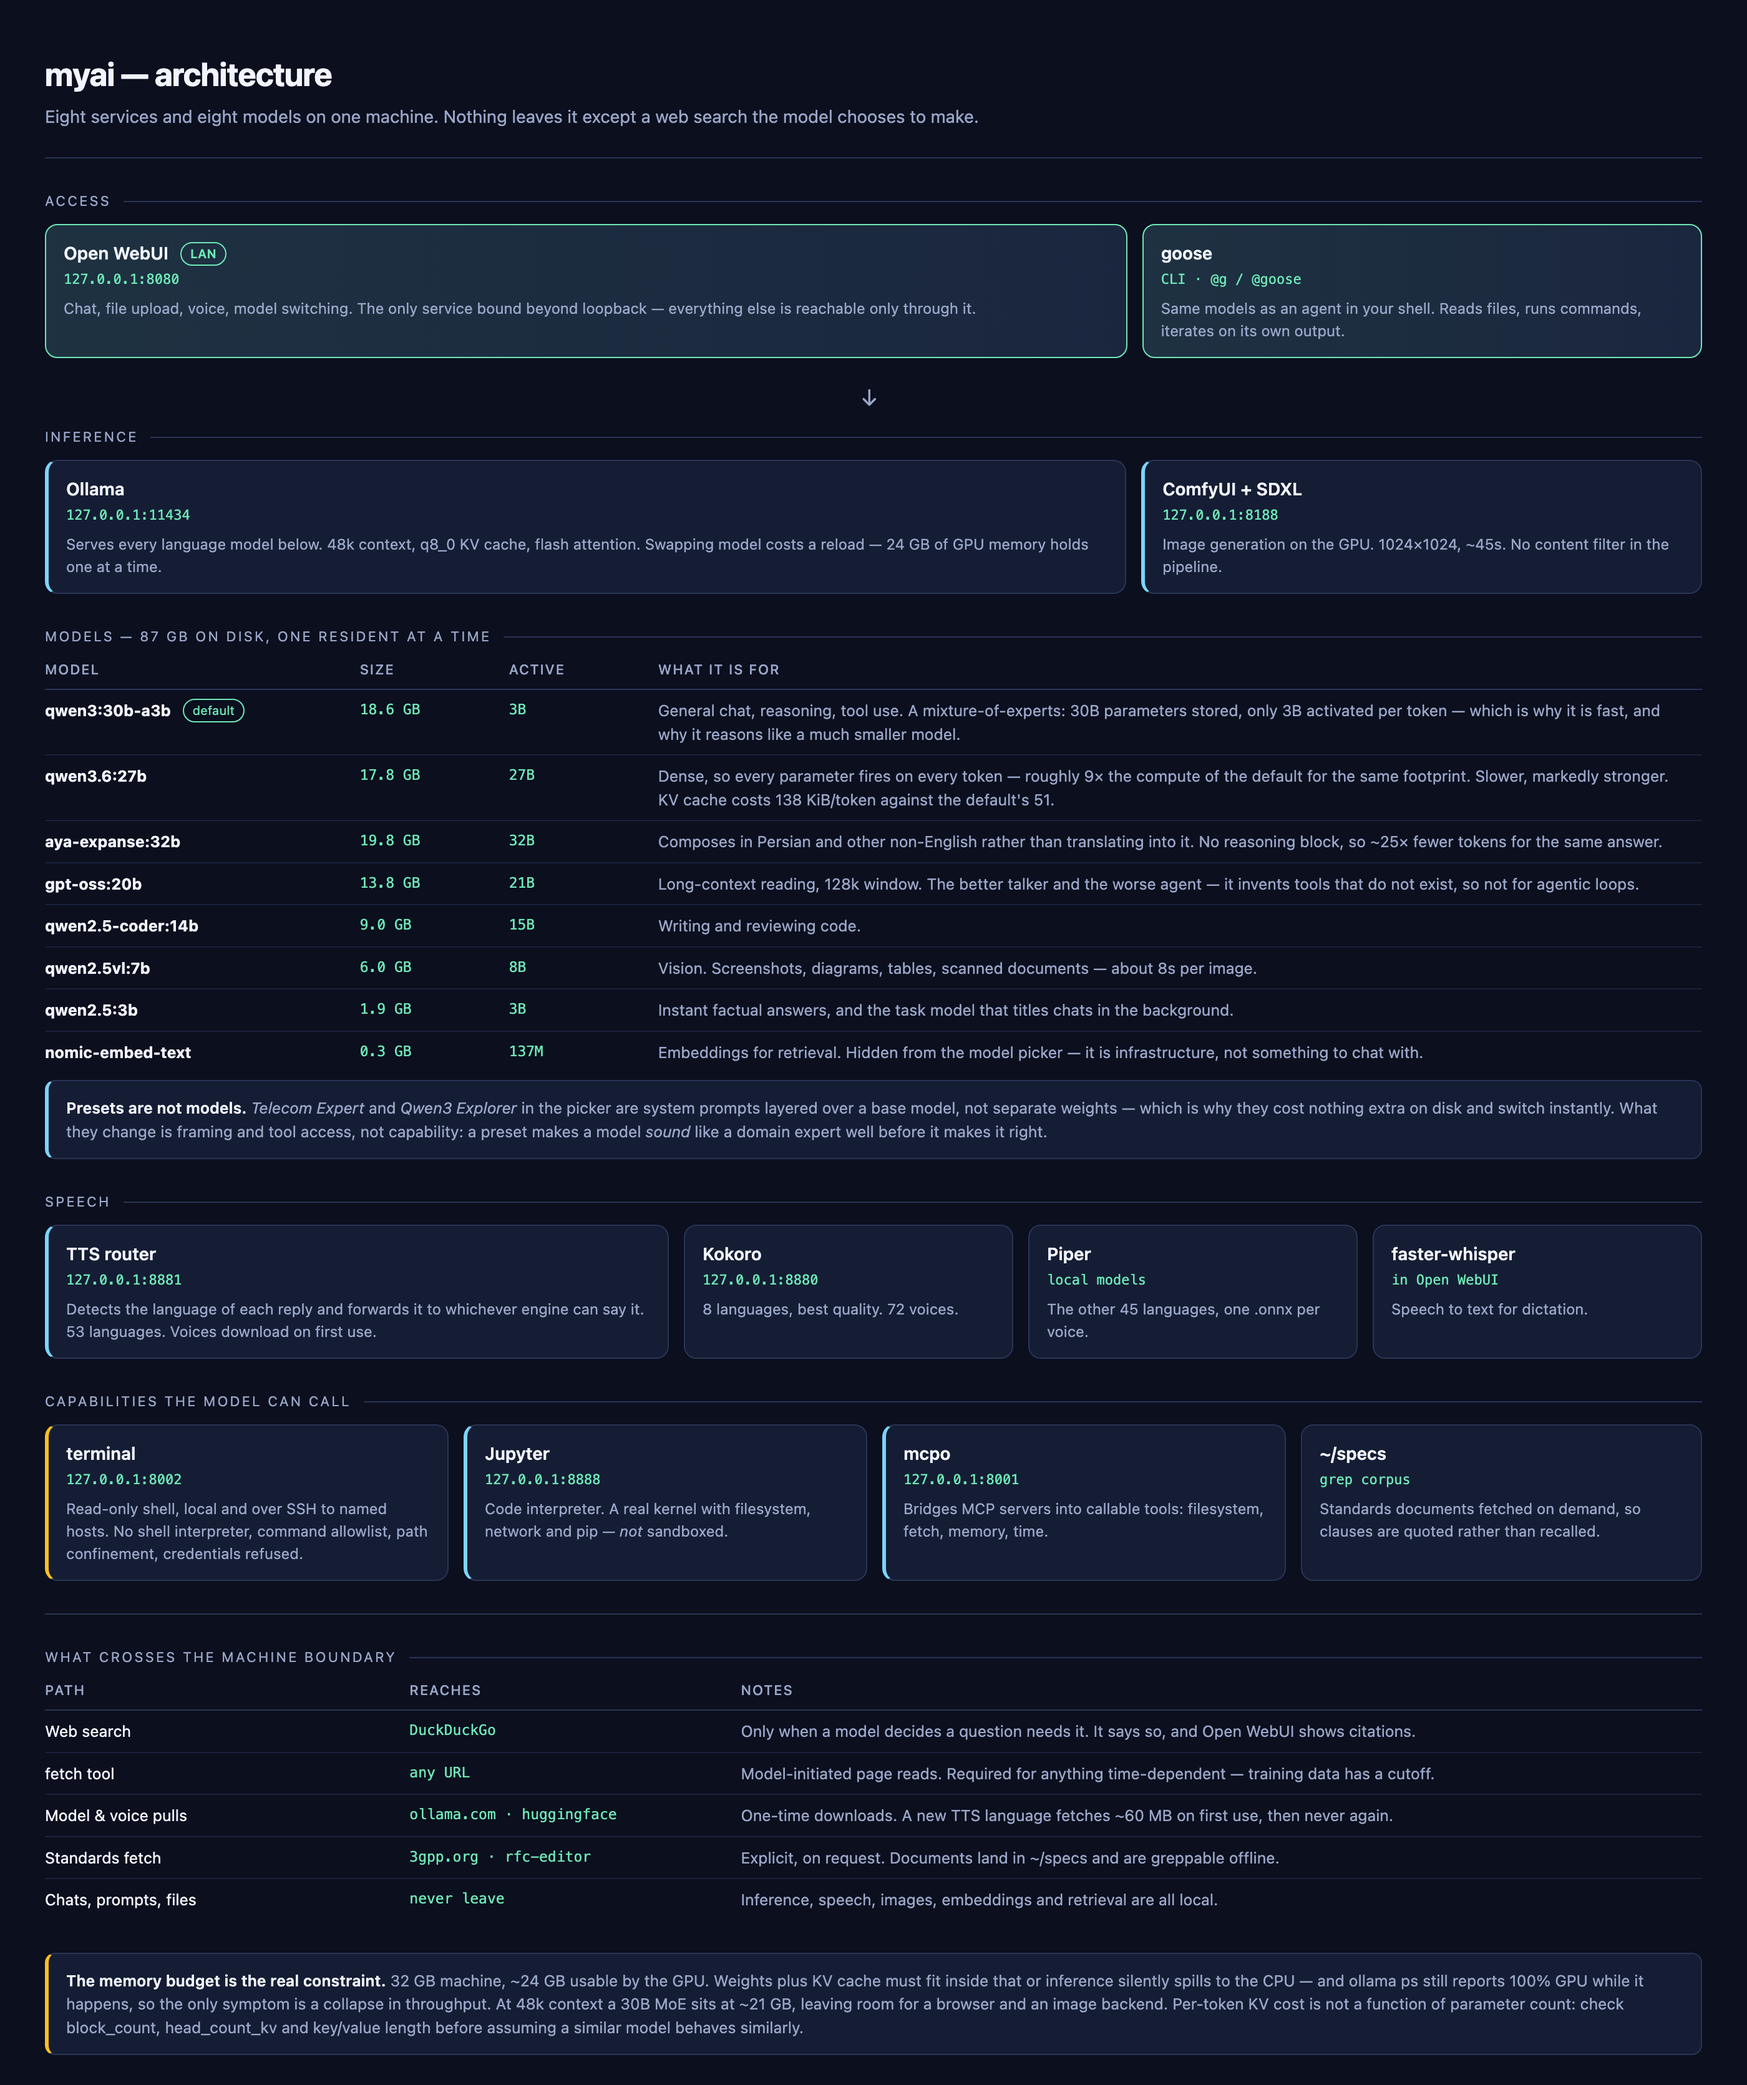
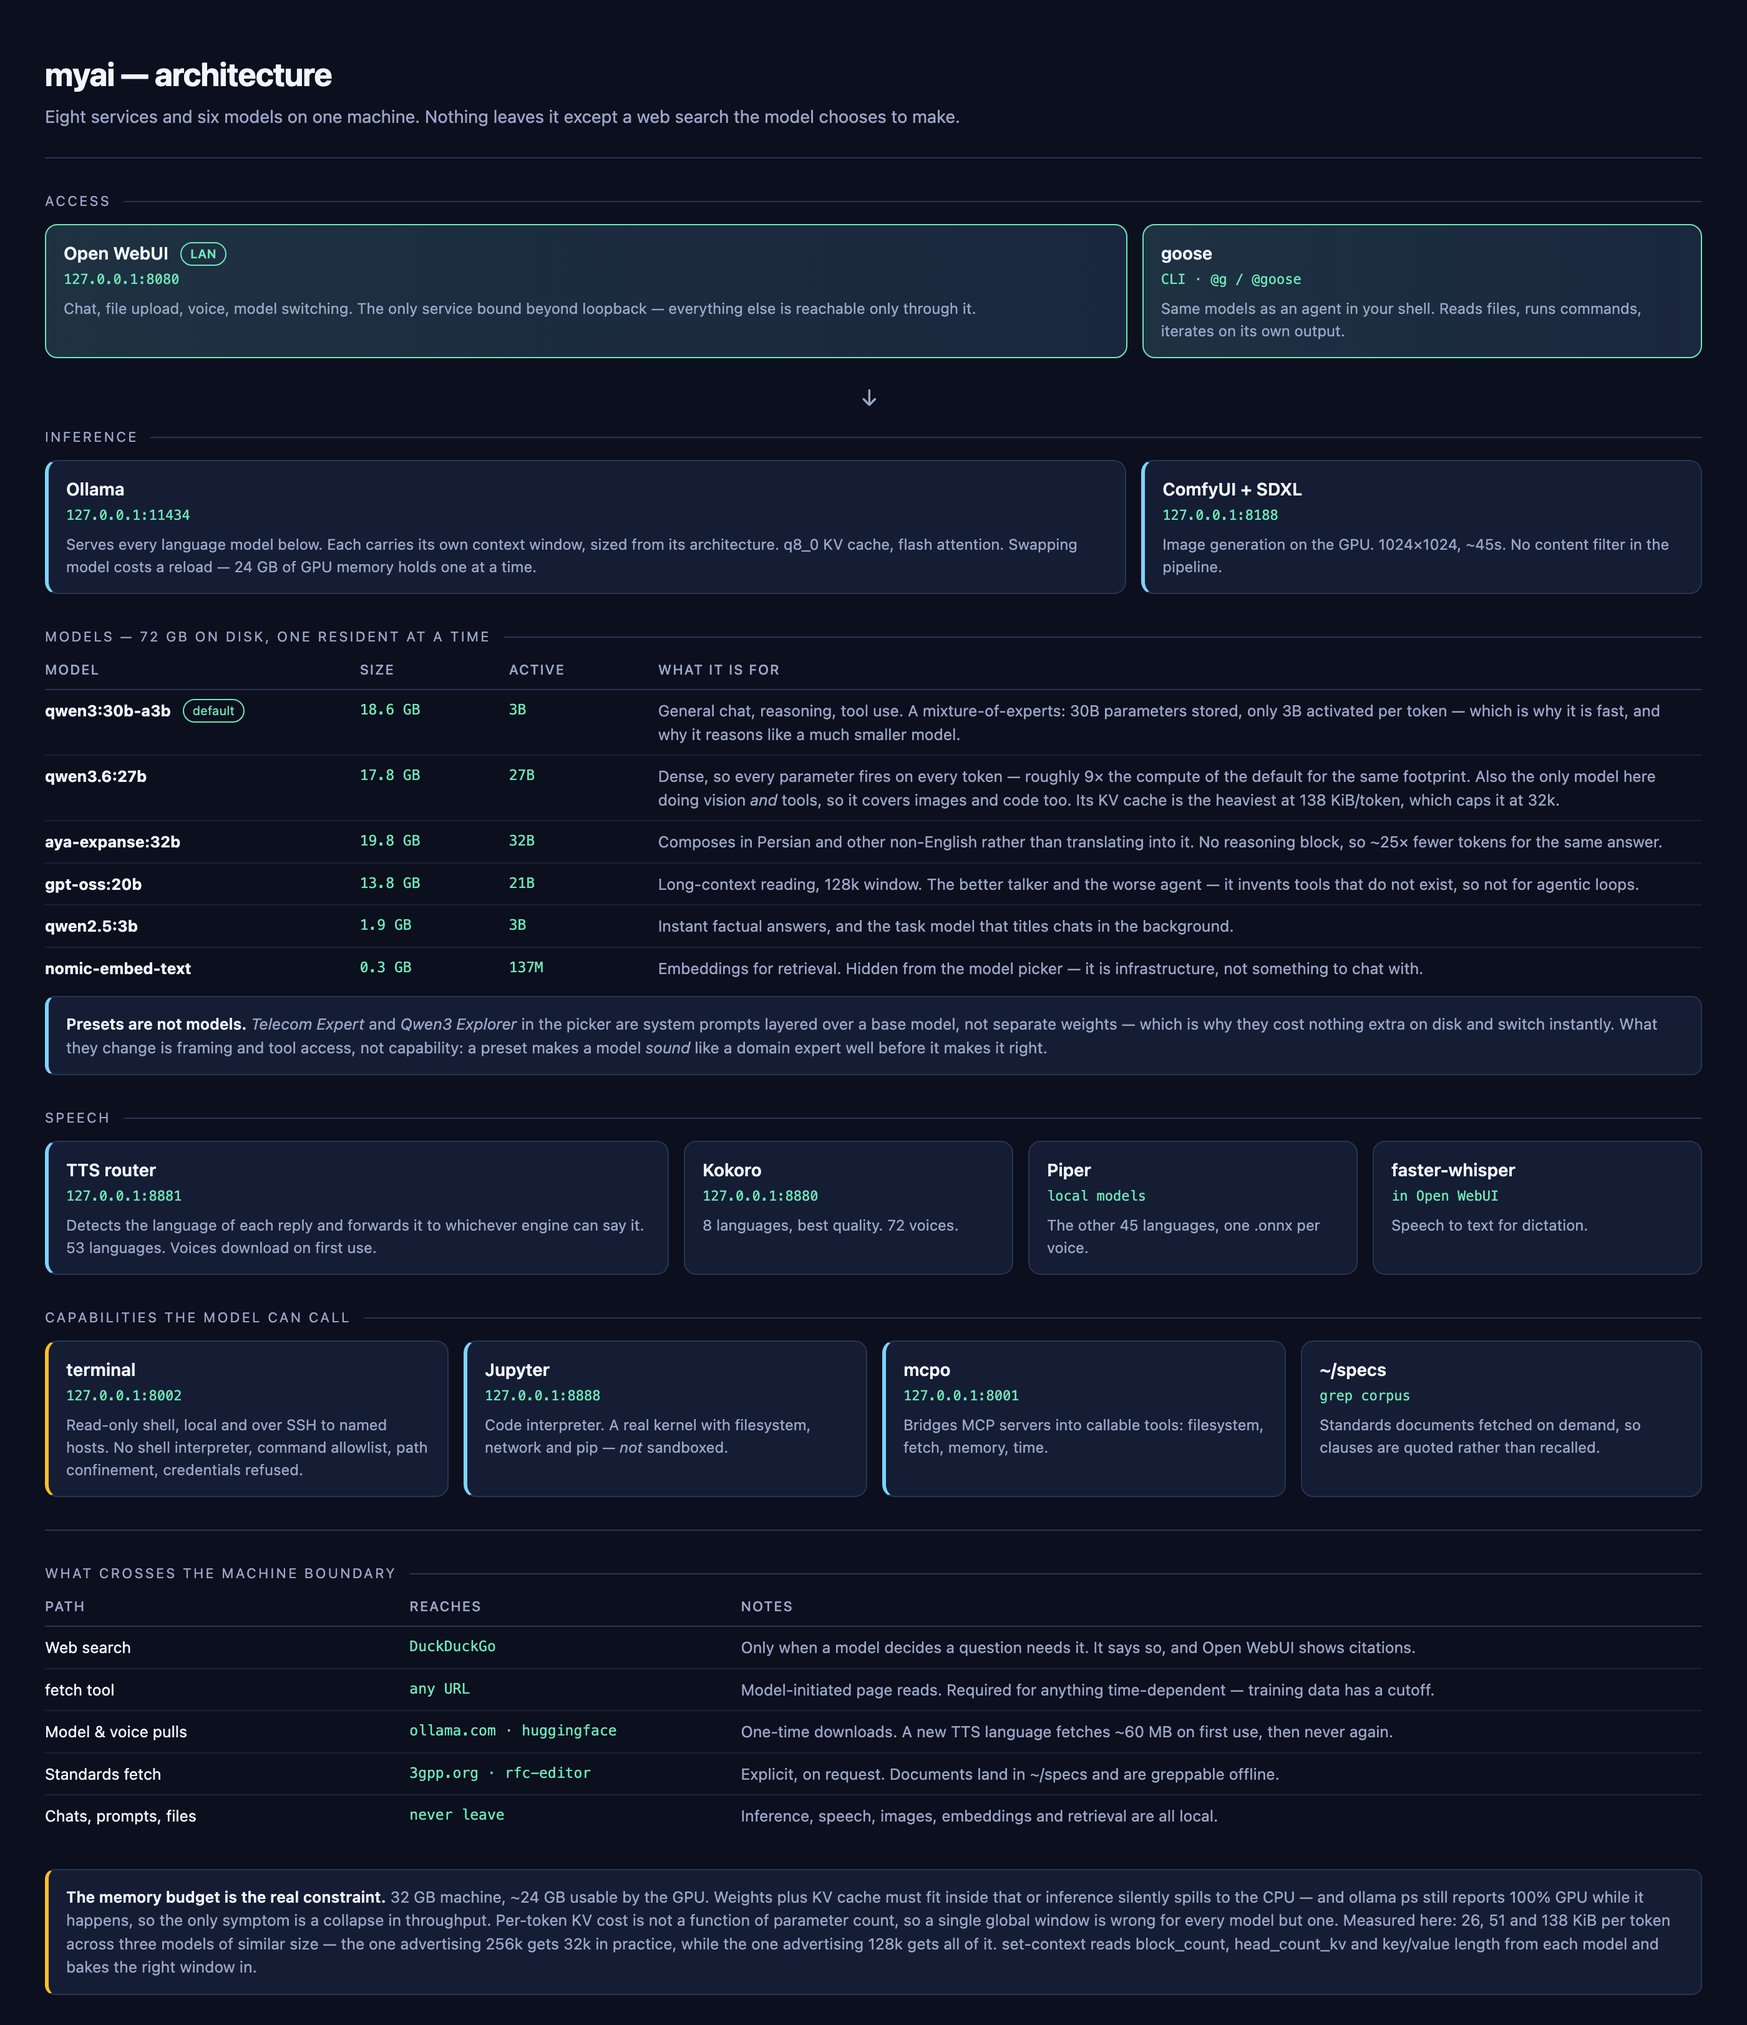
Bring the docs back in line with what is actually installed
The architecture page and GUIDE still described a stack that no longer exists:
two deleted models listed as available, 87 GB of models when there are 72, a
single 48k context window when each model now carries its own, and "pick the VL
model" for images when the VL model is gone.

Three corrections are substantive rather than bookkeeping.

Images now say to pick qwen3.6, and say why that is not merely a substitution:
it is the only model here reporting vision and tools together, so reading an
image no longer forces a model switch when an integration toggle is on. It also
warns about the cost -- a dense 27B takes tens of seconds per image where the 7B
specialist took eight.

The context guidance stops quoting one number. Each model gets what its KV cache
allows: 128k, 72k, 32k. Stating a single figure was what made the old global
setting look reasonable in the first place.

The Persian note is replaced with what was measured instead of what was
impressive. Across five registers aya emitted zero Arabic yeh/kaf where Persian
forms are required -- a tell that is invisible at a glance and breaks search and
sorting -- used ZWNJ correctly, and mixed Persian and Latin numerals the way
Persian technical writing does. Added alongside it: turn thinking off for short
non-English work, because the same one-line request cost 500 tokens and returned
nothing with it on, and 16 tokens with it off.

Also corrects the service count, which had said seven since the TTS router
made it eight.

diff --git a/docs/architecture.html b/docs/architecture.html
@@ -71,7 +71,7 @@
 </style>
 
 <h1>myai — architecture</h1>
-<p class="sub">Eight services and eight models on one machine. Nothing leaves it except a web search the model chooses to make.</p>
+<p class="sub">Eight services and six models on one machine. Nothing leaves it except a web search the model chooses to make.</p>
 <div class="rule"></div>
 
 <div class="band">
@@ -98,7 +98,7 @@
     <div class="card engine wide">
       <div class="name">Ollama</div>
       <div class="port">127.0.0.1:11434</div>
-      <div class="desc">Serves every language model below. 48k context, q8_0 KV cache, flash attention. Swapping model costs a reload — 24&nbsp;GB of GPU memory holds one at a time.</div>
+      <div class="desc">Serves every language model below. Each carries its own context window, sized from its architecture. q8_0 KV cache, flash attention. Swapping model costs a reload — 24&nbsp;GB of GPU memory holds one at a time.</div>
     </div>
     <div class="card engine">
       <div class="name">ComfyUI + SDXL</div>
@@ -109,7 +109,7 @@
 </div>
 
 <div class="band">
-  <div class="band-label">Models — 87&nbsp;GB on disk, one resident at a time</div>
+  <div class="band-label">Models — 72&nbsp;GB on disk, one resident at a time</div>
   <table>
     <tr>
       <th style="width:19%">Model</th><th style="width:9%">Size</th>
@@ -123,7 +123,7 @@
     <tr>
       <td><b>qwen3.6:27b</b></td>
       <td class="mono">17.8 GB</td><td class="mono">27B</td>
-      <td class="d">Dense, so every parameter fires on every token — roughly 9× the compute of the default for the same footprint. Slower, markedly stronger. KV cache costs 138 KiB/token against the default's 51.</td>
+      <td class="d">Dense, so every parameter fires on every token — roughly 9× the compute of the default for the same footprint. Also the only model here doing vision <i>and</i> tools, so it covers images and code too. Its KV cache is the heaviest at 138 KiB/token, which caps it at 32k.</td>
     </tr>
     <tr>
       <td><b>aya-expanse:32b</b></td>
@@ -134,16 +134,6 @@
       <td><b>gpt-oss:20b</b></td>
       <td class="mono">13.8 GB</td><td class="mono">21B</td>
       <td class="d">Long-context reading, 128k window. The better talker and the worse agent — it invents tools that do not exist, so not for agentic loops.</td>
-    </tr>
-    <tr>
-      <td><b>qwen2.5-coder:14b</b></td>
-      <td class="mono">9.0 GB</td><td class="mono">15B</td>
-      <td class="d">Writing and reviewing code.</td>
-    </tr>
-    <tr>
-      <td><b>qwen2.5vl:7b</b></td>
-      <td class="mono">6.0 GB</td><td class="mono">8B</td>
-      <td class="d">Vision. Screenshots, diagrams, tables, scanned documents — about 8s per image.</td>
     </tr>
     <tr>
       <td><b>qwen2.5:3b</b></td>
@@ -250,9 +240,11 @@
   <b>The memory budget is the real constraint.</b> 32&nbsp;GB machine, ~24&nbsp;GB usable by the GPU.
   Weights plus KV cache must fit inside that or inference silently spills to the CPU — and
   <span class="mono">ollama ps</span> still reports 100% GPU while it happens, so the only
-  symptom is a collapse in throughput. At 48k context a 30B MoE sits at ~21&nbsp;GB, leaving
-  room for a browser and an image backend. Per-token KV cost is not a function of parameter
-  count: check <span class="mono">block_count</span>, <span class="mono">head_count_kv</span>
-  and key/value length before assuming a similar model behaves similarly.
+  symptom is a collapse in throughput. Per-token KV cost is not a function of parameter count, so a single global
+  window is wrong for every model but one. Measured here: 26, 51 and 138&nbsp;KiB per token
+  across three models of similar size — the one advertising 256k gets 32k in practice, while
+  the one advertising 128k gets all of it. <span class="mono">set-context</span> reads
+  <span class="mono">block_count</span>, <span class="mono">head_count_kv</span> and
+  key/value length from each model and bakes the right window in.
 </div>
 </html>

diff --git a/GUIDE.md b/GUIDE.md
@@ -11,7 +11,7 @@ and only when a model decides it needs one — it will tell you when it does.
 ## The first ten minutes
 
 ```bash
-myai start          # brings up all seven services, opens the browser
+myai start          # brings up all eight services, opens the browser
 myai status         # what is running, and on which ports
 ```
 
@@ -22,7 +22,7 @@ under a minute.
 |---|---|
 | "How much disk is free, and what is using it?" *(switch on **Terminal**)* | it runs real commands and reads the output |
 | "Plot the last 30 days of anything from this CSV" *(attach a file, switch on **Code Interpreter**)* | a real Python kernel, not a sandbox |
-| Paste a screenshot: "what is wrong with this config?" *(pick **Qwen2.5-VL**)* | it reads images |
+| Paste a screenshot: "what is wrong with this config?" *(pick **Qwen3.6 27B**)* | it reads images |
 | "Generate an image of a lighthouse at dusk" *(image icon)* | SDXL on the local GPU |
 | "What changed in the latest Ollama release?" | it searches the web and says so |
 | "Present that as an infographic" | a rendered HTML page, not ASCII art |
@@ -38,8 +38,7 @@ This matters more than any other setting. The models are not interchangeable.
 | **Qwen3 30B** | general chat, reasoning, tool use — the default | nothing much; it is the all-rounder |
 | **Qwen3 Explorer** | when you want a position, not a survey — it challenges the question | quick factual lookups; it is slower and blunter |
 | **GPT-OSS 20B** | long-context reading, 128k window | agentic loops — it invents tools that do not exist |
-| **Qwen2.5 Coder 14B** | writing and reviewing code | general conversation |
-| **Qwen2.5-VL 7B** | anything with an image in it | text-only work; it is small |
+| **Qwen3.6 27B** | hard work — images, code, tool use. Dense, so every parameter fires | long documents; its context caps at 32k |
 | **Qwen2.5 3B** | instant factual answers | anything needing thought |
 | **Telecom Expert** | standards questions — it greps the spec corpus | general use |
 | **Aya Expanse 32B** | Persian, and other non-English output | domain terminology; verify what it translates |
@@ -50,9 +49,16 @@ Two findings worth carrying:
 and repeatedly failed at multi-turn tool use, inventing `container.exec`, `browser.run`
 and `cat` as tools. Use it for reading and thinking, not for doing.
 
-**Aya composes in Persian; Qwen3 translates into it.** Asked to write a message to a
-colleague, Qwen3 produced correct but robotic text while Aya used natural idiom —
-and 25× fewer tokens, because it has no reasoning block.
+**Aya is the safe choice for Persian, and it is measurable.** Across five registers it
+emitted zero Arabic ی/ک where Persian forms are required — a common tell in models trained
+mostly on Arabic, invisible at a glance and breaks search and sorting — used ZWNJ correctly
+in compounds, and put Persian numerals in prose while leaving 5G and 4G in Latin. It also
+has no reasoning block, so a short reply costs ~60 tokens rather than several hundred.
+
+**Turn thinking off for short non-English work.** Asked for a one-line message in Persian,
+Qwen3.6 spent 500 tokens reasoning and returned nothing usable. The same prompt with
+`think: false` answered correctly in 16 tokens. The reasoning block earns its cost on hard
+problems and is pure latency on "write me a sentence".
 
 ---
 
@@ -105,8 +111,10 @@ terminal, this is **not** restricted — Python there can do anything your accou
 
 ### Look at images
 
-Pick **Qwen2.5-VL 7B** and paste or attach. Screenshots, diagrams, tables, scanned
-documents, error dialogs. About 8 seconds per image.
+Pick **Qwen3.6 27B** and paste or attach. Screenshots, diagrams, tables, scanned
+documents, error dialogs. It is the only model here that does vision *and* tool calling, so
+you no longer have to switch model to read an image with an integration toggle on. Being a
+dense 27B it is slower than a small vision specialist — expect tens of seconds, not eight.
 
 ### Generate images
 
@@ -307,8 +315,9 @@ exists precisely because of this. Treat every unchecked specific as unverified.
 **Reliably expand acronyms in a domain.** Told explicitly not to, it still did — and got
 it wrong a third of the time.
 
-**Hold a long context usefully.** The window is 32k (64k+ on some models), but quality
-degrades well before the limit.
+**Hold a long context usefully.** Each model carries its own window, sized to what its
+KV cache allows: 128k for GPT-OSS, 72k for Qwen3, 32k for Qwen3.6. Quality degrades well
+before any of those limits, so a fresh chat beats a long one.
 
 **Ingest documents into knowledge collections.** Open WebUI's RAG pipeline extracts zero
 characters in this build. Use the spec corpus and file attachments instead.
